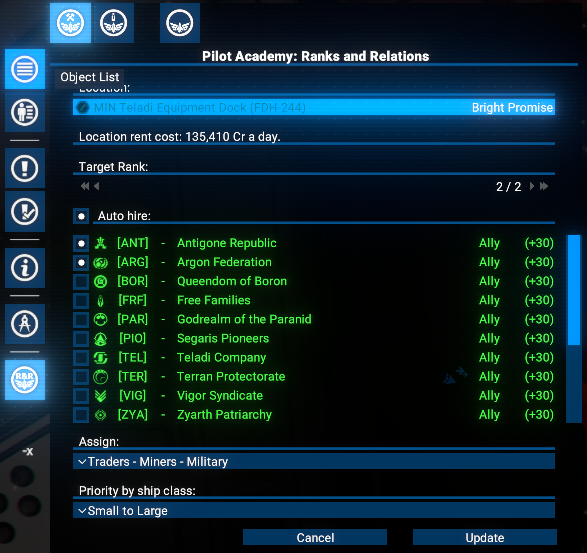
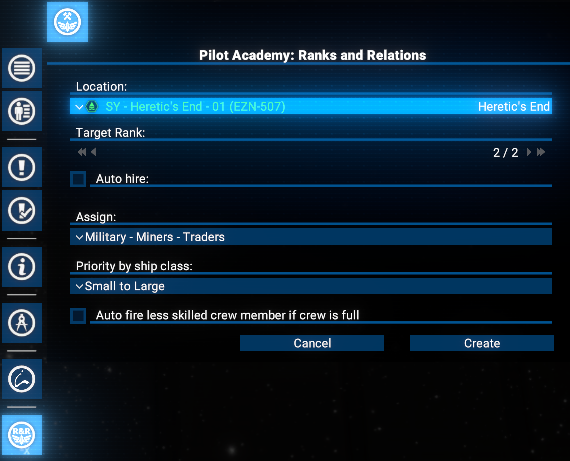
feat(README): add auto-fire crew member feature and priority options
README.md: +added warning for full crew and auto-fire option for less skilled members
  README.md: +added priority options for pilot assignment by ship purpose and size

diff --git a/README.md b/README.md
@@ -51,6 +51,7 @@ This is a complex mod and may have undiscovered issues. Please report any proble
 - Otherwise, the `Trained Pilot` on the ship will be swapped with a `Cadet` and then moved to the `Academy` station.
 - If the `Assign` option is not set to `Manual`, and the last assignment turn was finished at least 2 minutes ago, the `Auto Assign` procedure will be initiated.
 - Based on the `Assign` setting, a ship with a pilot who has a lower rank (and is below the target rank level) will be selected.
+- Please take in account: if crew is full, by default you will get a warning notification and the pilot swapping will not be performed. But if the option `Auto fire less skilled crew member if crew is full` is enabled, the less qualified crew member will be automatically dismissed to free up space for the new pilot transfer.
 - If such a ship is found, the `Trained Pilot` will be assigned as its pilot, and the existing pilot will be transferred to the `Academy` station as a new `Cadet`.
 - Every 3 minutes, the `Auto Assign` procedure will repeat to check for available `Trained Pilots`.
 
@@ -112,6 +113,18 @@ Once researched, the Player can enable auto-assign in the `Academy` interface. T
 ![Auto-assign settings panel with ship class filters and priority options to automatically deploy trained pilots to the Player's fleet.](docs/images/auto_assign_options.png)
 
 When auto-assign is active, `Trained Pilots` will replace existing pilots on the Player's ships who have a lower rank than the target. The replaced pilots will be reassigned to the `Academy` as `Cadets`.
+
+Pilot will be assigned based on the selected priority:
+
+- `By ship purpose`: The Player can prioritize ships based on their role, such as combat, trading, or mining.
+  ![Auto-assign options by ship purpose.](docs/images/auto_assign_options_priority_by_ship_purpose.png)
+
+- `By ship size`: The Player can prioritize ships based on their size, from small to large or vice versa.
+  ![Auto-assign options by ship size.](docs/images/auto_assign_options_priority_by_size.png)
+
+In addition, please be aware about situation when the target ship's crew is full. By default, in this case, the pilot swapping will not be performed and the Player will get a warning notification.
+
+But if the option `Auto fire less skilled crew member if crew is full` is enabled, the less qualified crew member will be automatically dismissed to free up space for the new pilot transfer.
 
 ### Cadets and Pilots
 
